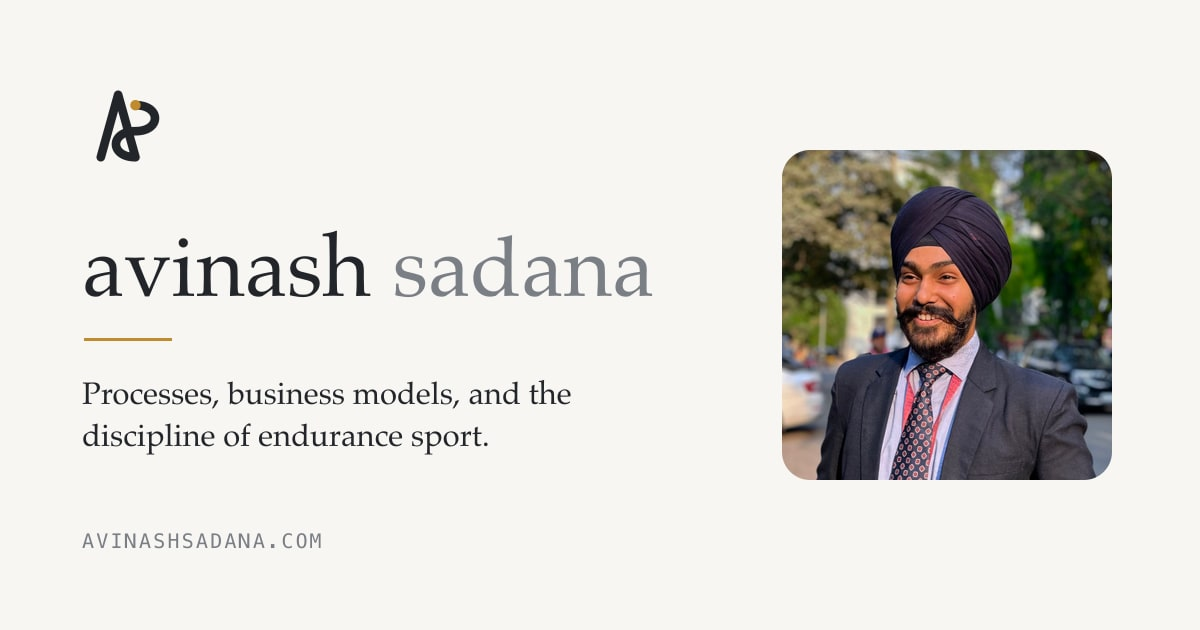
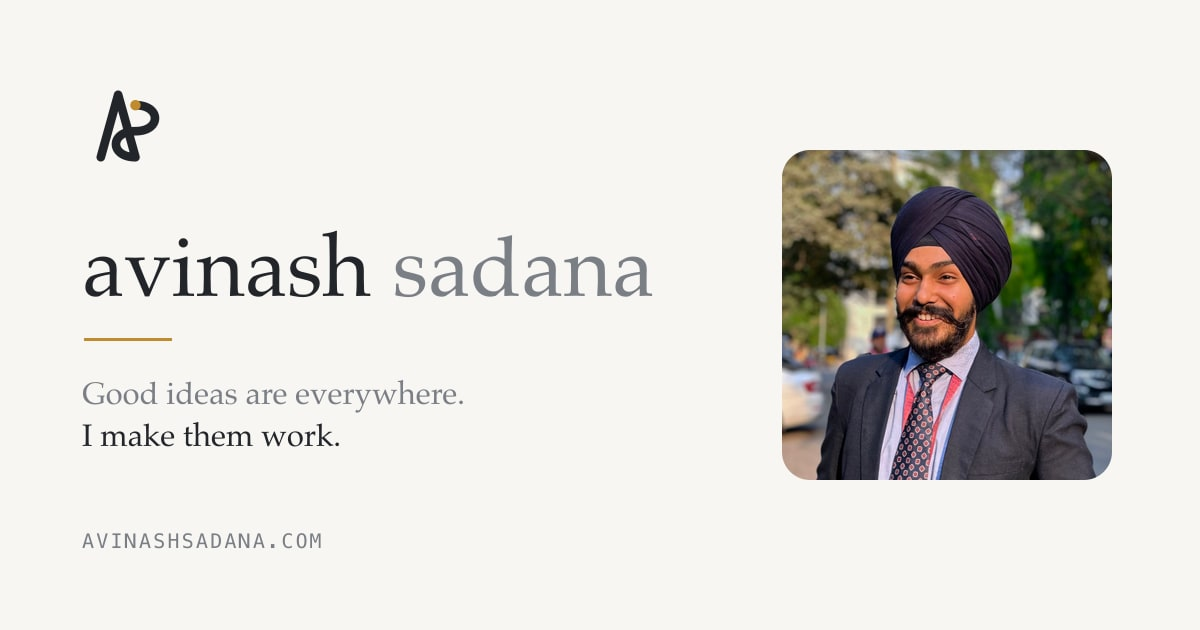
New hero line, 365-day run streak, Strava on the endurance page
Hero is now "Good ideas are everywhere. I make them work." — Avinash's own
framing, in the two-beat form he picked. Rendered as one <p> with two spans so
assistive tech and crawlers read the single sentence it is, while the setup
sits back visually and the claim lands.

Adds the 365-day run streak: a stat in the endurance band and its own entry.
It is deliberately absent from the timeline, which needs real years — I don't
know when it ran and won't invent dates.

Strava gets a proper card on /endurance rather than only a footer link: the
page makes claims, and that is where the receipts are.

Changed region(s): [[0.0617, 0.6032, 0.4933, 0.7238]]

diff --git a/src/site.config.ts b/src/site.config.ts
@@ -17,8 +17,8 @@ export const site = {
   /** Used as the <title> suffix and in the JSON-LD `jobTitle`. */
   role: 'Programmes · Operations · Strategy',
 
-  /** The one-line pitch. Simple on purpose. */
-  tagline: 'I make complicated things run.',
+  /** The one-line pitch. Setup then claim — simple on purpose. */
+  tagline: 'Good ideas are everywhere. I make them work.',
 
   /**
    * Capability-led, not employer-led. No company name here on purpose — the
@@ -26,7 +26,7 @@ export const site = {
    * work. Employers belong in the work history, not the metadata.
    */
   description:
-    'Avinash Sadana — I make complicated things run. Programme management, process design and strategy, from heavy engineering to power manufacturing. Lean Six Sigma Green Belt, MBA in International Business, founder of a music festival and a pan-India cycling community, ultra-distance cyclist.',
+    'Avinash Sadana — good ideas are everywhere; I make them work. Programme management, process design and strategy, from heavy engineering to power manufacturing. Lean Six Sigma Green Belt, MBA in International Business, founder of a music festival and a pan-India cycling community, ultra-distance cyclist and trail runner.',
 
   /** Three words that head the hero. Change these and the hero changes. */
   heroWords: ['Operations', 'Ventures', 'Endurance'],

diff --git a/src/content/endurance/triathlon.md b/src/content/endurance/triathlon.md
@@ -4,7 +4,7 @@ category: triathlon
 summary: >-
   Competing as a triathlete alongside ultra-distance cycling — swim, bike and
   run, and the training discipline of holding three sports at once.
-order: 5
+order: 6
 ---
 
 Triathlon is the counterweight to ultra-cycling. Where an ultra is a single

diff --git a/src/content/endurance/run-streak.md b/src/content/endurance/run-streak.md
@@ -1,0 +1,10 @@
+---
+title: 365 days, one run a day
+category: run
+result: Every single day
+featured: true
+order: 2
+summary: >-
+  A run every day for a full year — no rest days, no exceptions. Travel, work
+  deadlines, weather, illness, festival weekends. The streak held for all 365.
+---

diff --git a/src/content/endurance/saucony.md b/src/content/endurance/saucony.md
@@ -3,7 +3,7 @@ title: Key Opinion Leader — Saucony
 category: ambassador
 location: Vadodara, India
 featured: true
-order: 6
+order: 7
 summary: >-
   Brand influencer and Key Opinion Leader for Saucony, a top-ten global running
   brand — including organising the Vadodara Saucony Run.

diff --git a/src/content/endurance/deccan-cliffhanger.md b/src/content/endurance/deccan-cliffhanger.md
@@ -6,7 +6,7 @@ location: Pune → Goa, India
 distanceKm: 646
 result: 2nd Rank
 featured: true
-order: 2
+order: 3
 summary: >-
   Second place over 646 kilometres from Pune to Goa — India’s qualifying race
   for the Race Across America, ridden continuously against a hard cut-off.

diff --git a/src/content/endurance/long-distance-rides.md b/src/content/endurance/long-distance-rides.md
@@ -4,7 +4,7 @@ category: ride
 year: '2018–present'
 location: India
 featured: true
-order: 4
+order: 5
 summary: >-
   The routes behind the numbers — Vadodara–Kutch–Vadodara, the
   Sabarmati-to-Dandi Salt Ride, and a stack of others between 300 and 1000

diff --git a/src/content/endurance/trail-running.md b/src/content/endurance/trail-running.md
@@ -4,7 +4,7 @@ category: run
 year: 'Ongoing'
 result: Multiple ultras
 featured: true
-order: 3
+order: 4
 summary: >-
   Trail running is the other half of the endurance habit — off-road, on rough
   ground, for hours. I've run ultra-distance many times over.
